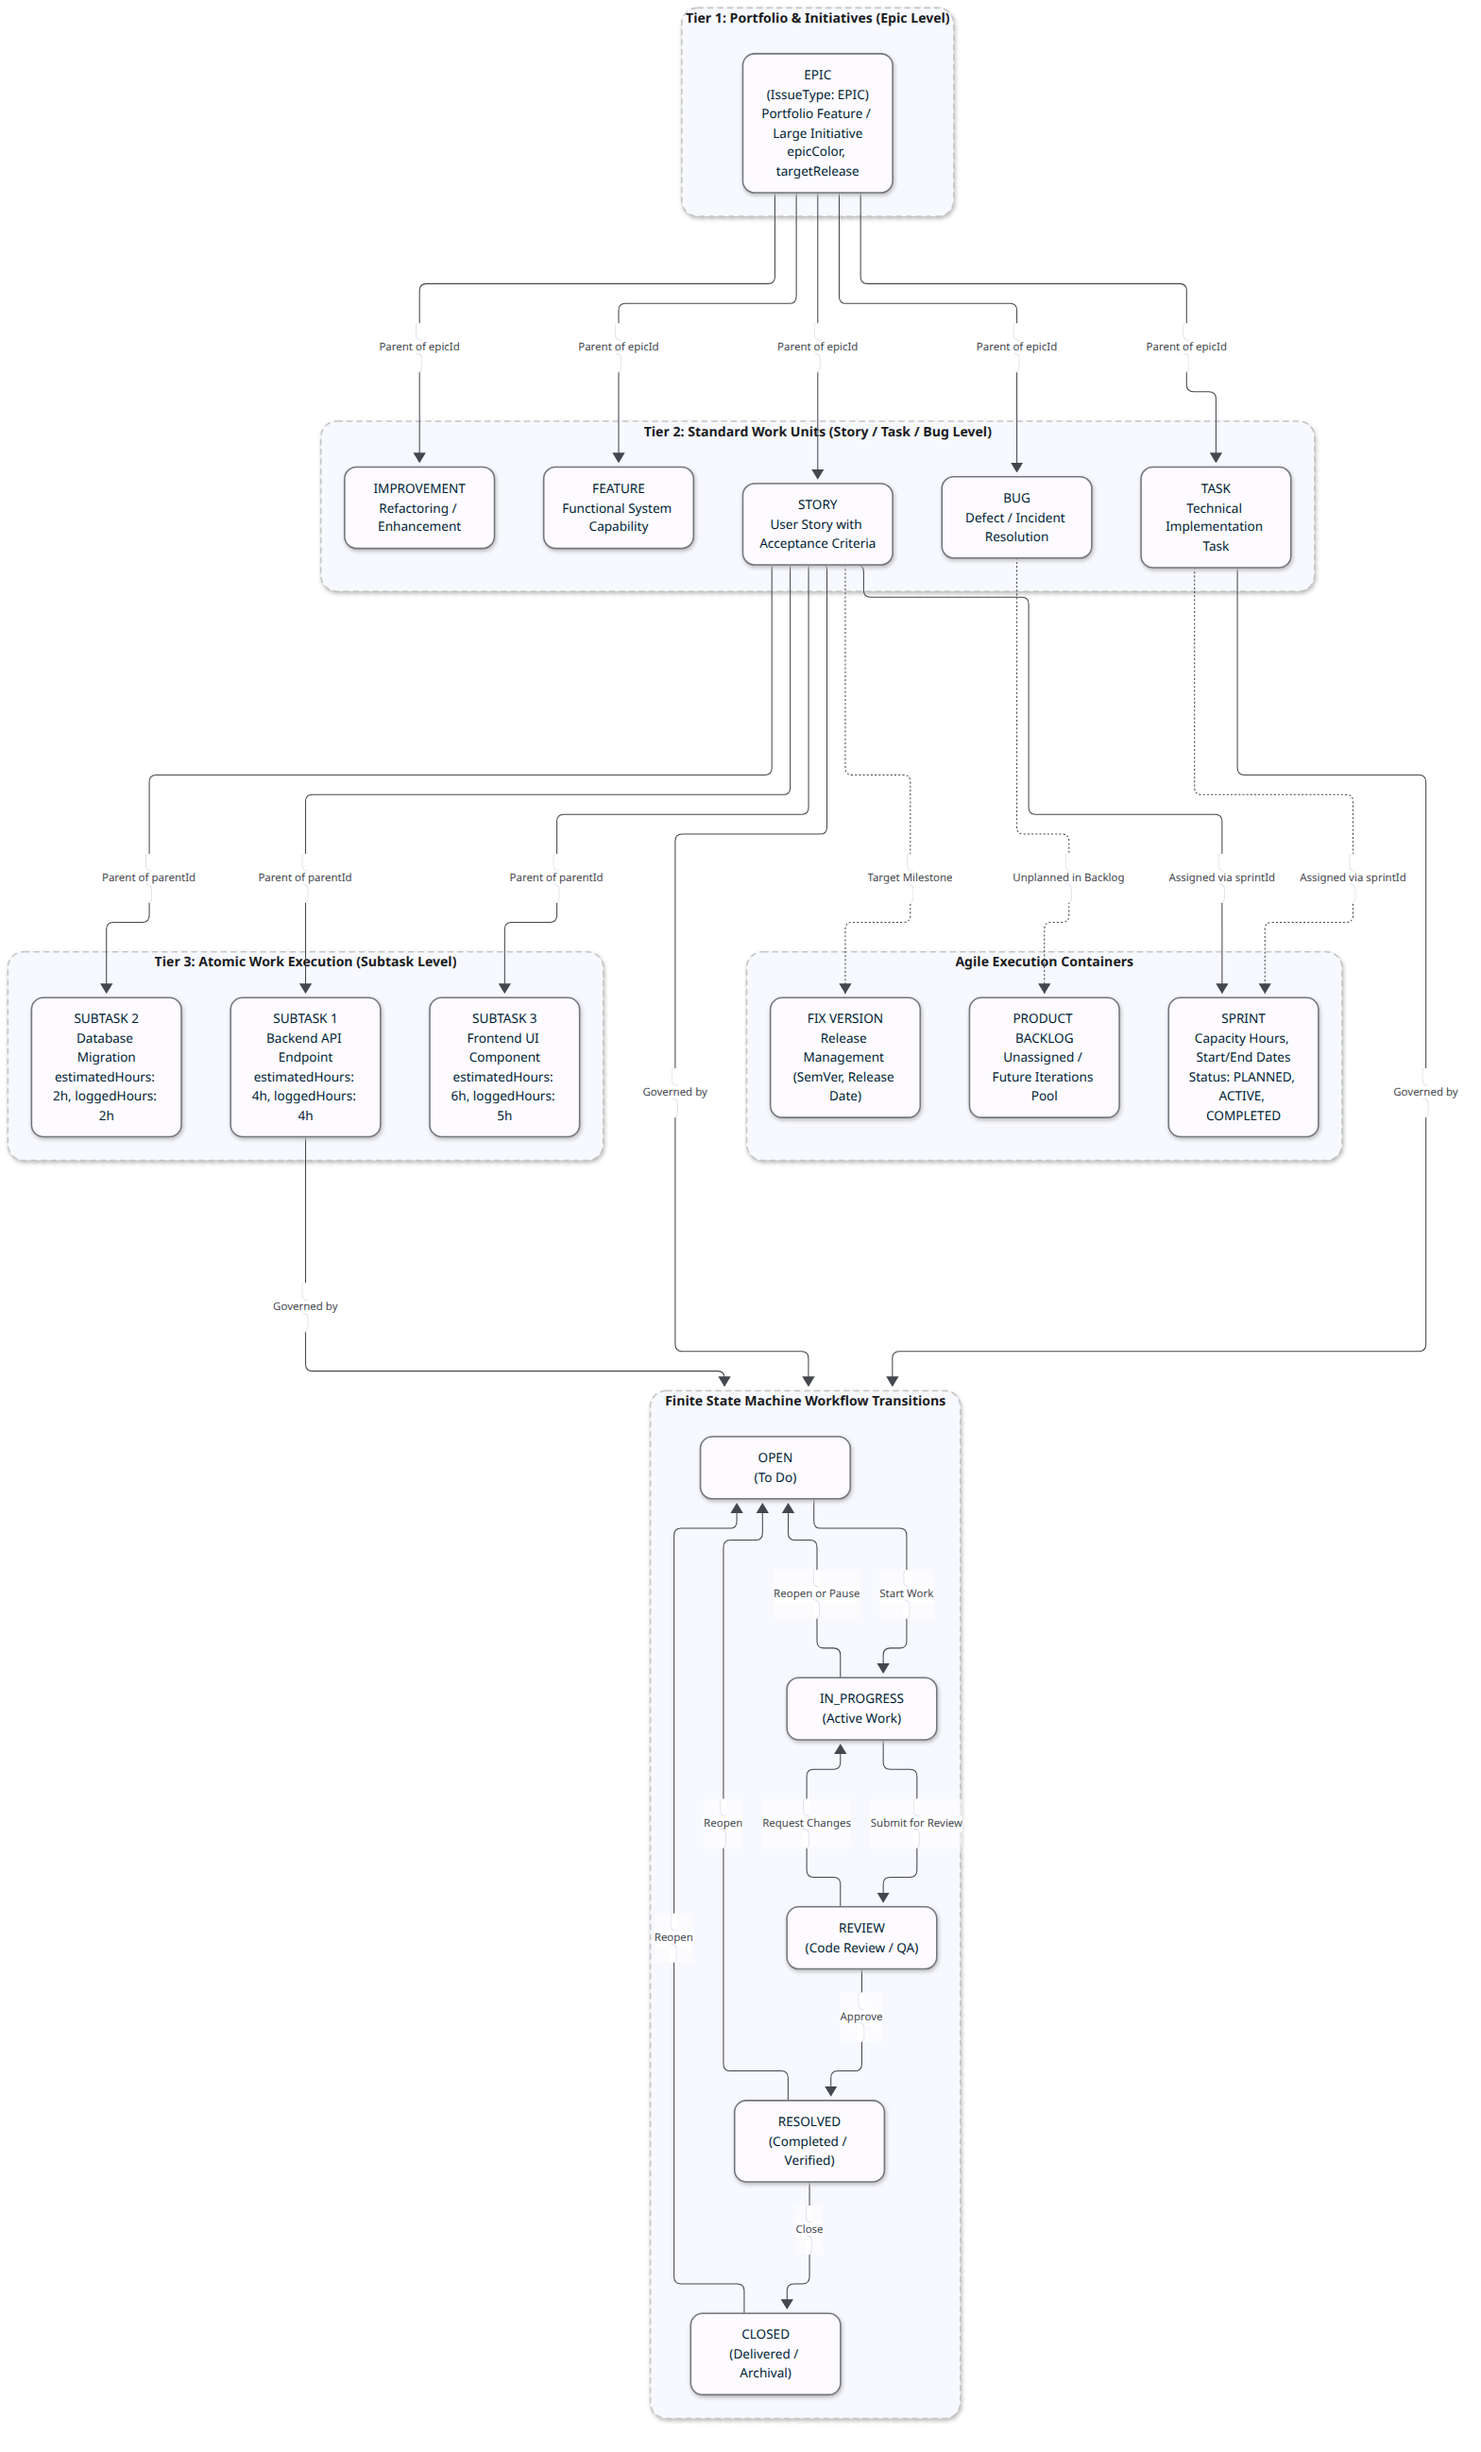
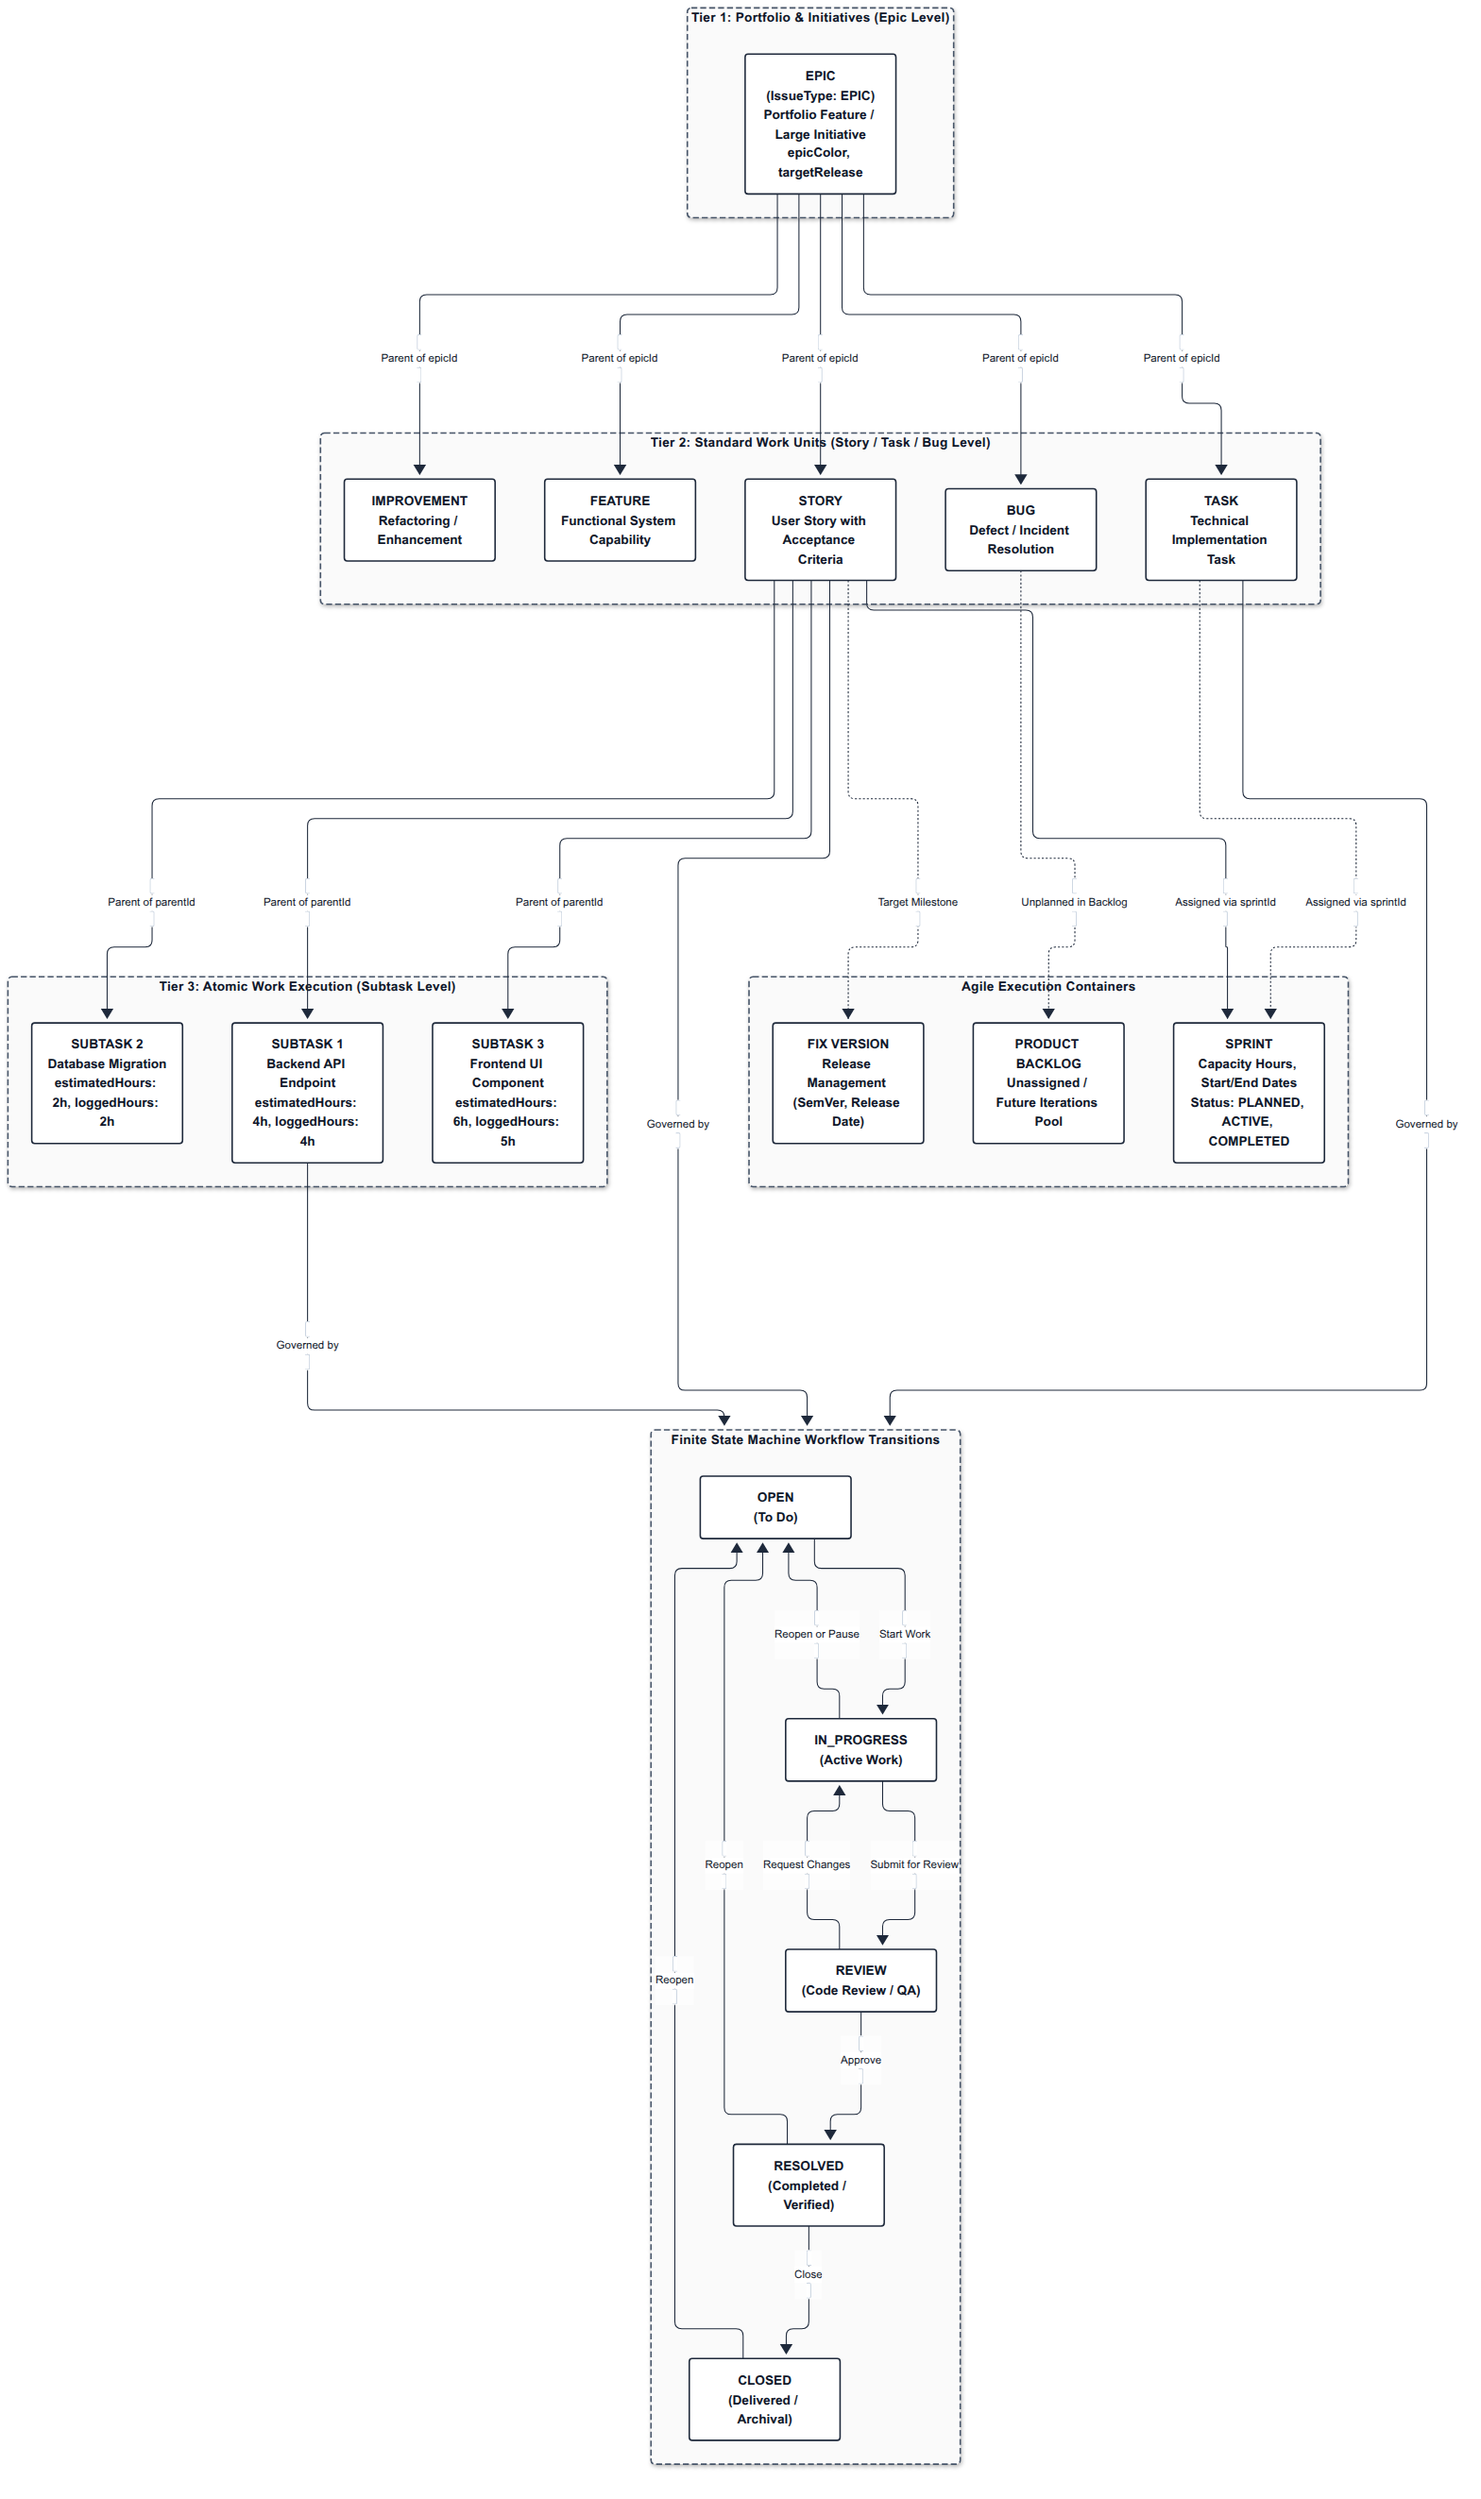
docs(diagrams): convert to academic style and purge dead code

diff --git a/documentation/architecture/diagrams/mermaid-style.css b/documentation/architecture/diagrams/mermaid-style.css
@@ -1,104 +1,139 @@
 /* ==============================================================================
-   Material Design 3 Expressive Styling for Mermaid Diagrams
+   Academic Technical Publication Style (IEEE / ACM / ISO / ДСТУ Standards)
    ============================================================================== */
 
-/* Global Typography */
+/* Global Academic Typography */
 text {
-  font-family: 'Inter', system-ui, -apple-system, BlinkMacSystemFont, 'Segoe UI', Roboto, sans-serif !important;
-  letter-spacing: -0.01em;
+  font-family: Arial, 'Helvetica Neue', 'Liberation Sans', sans-serif !important;
+  letter-spacing: 0 !important;
+  fill: #0F172A !important;
 }
 
-/* 1. Flowchart Elements */
+/* 1. Flowchart & UML Component Elements */
 .node rect,
 .node circle,
 .node polygon {
-  rx: 12px !important;
-  ry: 12px !important;
+  rx: 3px !important;
+  ry: 3px !important;
+  stroke: #1E293B !important;
   stroke-width: 1.5px !important;
-  filter: drop-shadow(0px 2px 4px rgba(0, 0, 0, 0.04));
+  fill: #FFFFFF !important;
+  filter: none !important;
 }
 
 .node .label {
-  font-weight: 500;
-  line-height: 1.4;
+  font-weight: 600;
+  line-height: 1.35;
+  color: #0F172A !important;
 }
 
-/* Subgraphs / Clusters (Pixel OS Optical Card Metaphor) */
+/* Subgraphs / Clusters (Package / Subsystem boundaries) */
 .cluster rect {
-  rx: 16px !important;
-  ry: 16px !important;
+  rx: 4px !important;
+  ry: 4px !important;
   stroke-width: 1.5px !important;
-  stroke: #C4C7C5 !important;
-  fill: #F8F9FE !important;
-  stroke-dasharray: 6 4;
+  stroke: #475569 !important;
+  fill: #FAFAFA !important;
+  stroke-dasharray: 6 3;
 }
 
 .cluster span.nodeLabel {
   font-weight: 700 !important;
-  font-size: 13.5px !important;
-  color: #1A1C1E !important;
+  font-size: 13px !important;
+  color: #0F172A !important;
+  letter-spacing: 0.02em;
 }
 
 /* Connection Edges & Arrows */
 .edgePath path.path {
-  stroke-width: 1.75px !important;
-  stroke: #44474E !important;
+  stroke-width: 1.5px !important;
+  stroke: #1E293B !important;
 }
 
 .edgeLabel {
   background-color: #FFFFFF !important;
-  border-radius: 6px !important;
-  padding: 2px 6px !important;
+  border-radius: 2px !important;
+  padding: 1px 4px !important;
   font-size: 11px !important;
   font-weight: 500 !important;
-  color: #44474E !important;
-  border: 1px solid #E0E2EC !important;
+  color: #0F172A !important;
+  border: 1px solid #CBD5E1 !important;
 }
 
 .marker {
-  fill: #44474E !important;
-  stroke: #44474E !important;
+  fill: #1E293B !important;
+  stroke: #1E293B !important;
 }
 
-/* 2. Sequence Diagrams */
+/* 2. Sequence Diagrams (UML Interaction Standard) */
 rect.actor {
-  rx: 12px !important;
-  ry: 12px !important;
+  rx: 2px !important;
+  ry: 2px !important;
+  stroke: #1E293B !important;
   stroke-width: 1.5px !important;
-  filter: drop-shadow(0px 2px 4px rgba(0, 0, 0, 0.04));
+  fill: #FFFFFF !important;
+  filter: none !important;
 }
 
 text.actor > tspan {
-  font-weight: 600 !important;
+  font-weight: 700 !important;
+  color: #0F172A !important;
 }
 
 .messageLine0,
 .messageLine1 {
-  stroke-width: 1.75px !important;
-  stroke: #005FB0 !important;
+  stroke-width: 1.5px !important;
+  stroke: #1E293B !important;
 }
 
 .messageText {
-  font-size: 12px !important;
+  font-size: 11.5px !important;
   font-weight: 500 !important;
+  fill: #0F172A !important;
 }
 
 .note {
-  rx: 8px !important;
-  ry: 8px !important;
-  stroke-width: 1.25px !important;
-  filter: drop-shadow(0px 2px 3px rgba(0, 0, 0, 0.03));
+  rx: 2px !important;
+  ry: 2px !important;
+  stroke: #64748B !important;
+  stroke-width: 1px !important;
+  fill: #F8FAFC !important;
+  filter: none !important;
 }
 
-/* 3. Entity-Relationship Diagrams */
+.noteText {
+  font-size: 11px !important;
+  font-weight: 500 !important;
+  fill: #334155 !important;
+}
+
+/* 3. Entity-Relationship Diagrams (Crow's Foot / IDEF1X Academic Style) */
 .er.entityBox {
-  rx: 10px !important;
-  ry: 10px !important;
+  rx: 2px !important;
+  ry: 2px !important;
+  stroke: #1E293B !important;
   stroke-width: 1.5px !important;
-  filter: drop-shadow(0px 2px 4px rgba(0, 0, 0, 0.04));
+  fill: #FFFFFF !important;
+  filter: none !important;
+}
+
+.er.entityLabel {
+  font-weight: 700 !important;
+  font-size: 12px !important;
+  fill: #0F172A !important;
+}
+
+.er.attributeBoxOdd {
+  fill: #FFFFFF !important;
+  stroke: #E2E8F0 !important;
+}
+
+.er.attributeBoxEven {
+  fill: #F8FAFC !important;
+  stroke: #E2E8F0 !important;
 }
 
 .er.relationshipLine {
-  stroke-width: 1.75px !important;
-  stroke: #005FB0 !important;
+  stroke-width: 1.5px !important;
+  stroke: #1E293B !important;
 }

diff --git a/backend/src/modules/issues/services/issue-worklog.service.spec.ts b/backend/src/modules/issues/services/issue-worklog.service.spec.ts
@@ -4,13 +4,11 @@ import { IssueWorklogService } from './issue-worklog.service.js';
 import { Issue, IssueStatus, IssuePriority, IssueType } from '../entities/issue.entity.js';
 import { Worklog } from '../entities/worklog.entity.js';
 import { User, SystemRole } from '../../users/entities/user.entity.js';
-import { ProjectPermission } from '../../rbac/entities/permission-grant.entity.js';
 
 describe('IssueWorklogService', () => {
   let service: IssueWorklogService;
   let mockIssueRepo: any;
   let mockWorklogRepo: any;
-  let mockUserRepo: any;
   let mockDataSource: any;
   let mockEventsGateway: any;
   let mockPermissionEvaluator: any;
@@ -80,10 +78,6 @@ describe('IssueWorklogService', () => {
       save: vi.fn((entity) => Promise.resolve(entity)),
       find: vi.fn(),
       createQueryBuilder: vi.fn(),
-    };
-
-    mockUserRepo = {
-      find: vi.fn(),
     };
 
     mockEventsGateway = {

diff --git a/backend/src/modules/auth/dto/set-password.dto.ts b/backend/src/modules/auth/dto/set-password.dto.ts
@@ -27,7 +27,7 @@ export class SetPasswordDto {
   @Matches(/(?=.*\d)/, {
     message: 'Password must contain at least one numeric digit',
   })
-  @Matches(/(?=.*[@$!%*?&^#()_+\-=\[\]{};':"\\|,.<>\/])/, {
+  @Matches(/(?=.*[@$!%*?&^#()_+\-=[\]{};':"\\|,.<>/])/, {
     message: 'Password must contain at least one special character/symbol',
   })
   newPassword?: string;
@@ -48,7 +48,7 @@ export class SetPasswordDto {
   @Matches(/(?=.*\d)/, {
     message: 'Password must contain at least one numeric digit',
   })
-  @Matches(/(?=.*[@$!%*?&^#()_+\-=\[\]{};':"\\|,.<>\/])/, {
+  @Matches(/(?=.*[@$!%*?&^#()_+\-=[\]{};':"\\|,.<>/])/, {
     message: 'Password must contain at least one special character/symbol',
   })
   password?: string;

diff --git a/frontend/src/components/search/SearchToolbar.tsx b/frontend/src/components/search/SearchToolbar.tsx
@@ -282,6 +282,10 @@ export const SearchToolbar: React.FC<SearchToolbarProps> = ({
           <BookmarkPlus className="w-3.5 h-3.5" />
           <span>Save View</span>
         </button>
+
+        <div className="hidden sm:inline-flex items-center px-2.5 py-1 rounded-full bg-[var(--md-sys-color-surface-container)] border border-[var(--md-sys-color-outline-variant)]/40 text-xs font-medium text-[var(--md-sys-color-on-surface-variant)] shrink-0">
+          <span>{totalResults} {totalResults === 1 ? 'issue' : 'issues'}</span>
+        </div>
       </div>
 
       {/* Right: Mode Toggle (JQL), View Layout Switcher, Export, Refresh */}

diff --git a/backend/src/modules/rbac/services/rbac.service.spec.ts b/backend/src/modules/rbac/services/rbac.service.spec.ts
@@ -1,10 +1,8 @@
 import { describe, it, expect, beforeEach, vi } from 'vitest';
-import { BadRequestException, NotFoundException } from '@nestjs/common';
+import { BadRequestException } from '@nestjs/common';
 import { RbacService } from './rbac.service.js';
 import { ProjectRole } from '../entities/project-role.entity.js';
 import { Group } from '../entities/group.entity.js';
-import { PermissionScheme } from '../entities/permission-scheme.entity.js';
-import { IssueSecurityScheme } from '../entities/issue-security-scheme.entity.js';
 
 describe('RbacService Enterprise CRUD & Safeguards', () => {
   let service: RbacService;

diff --git a/backend/src/modules/teams/teams.controller.ts b/backend/src/modules/teams/teams.controller.ts
@@ -18,7 +18,7 @@ import {
 } from '@nestjs/common';
 import { FileInterceptor } from '@nestjs/platform-express';
 import type { Response } from 'express';
-import { ApiTags, ApiOperation, ApiBearerAuth, ApiResponse, ApiConsumes } from '@nestjs/swagger';
+import { ApiTags, ApiOperation, ApiBearerAuth, ApiConsumes } from '@nestjs/swagger';
 import { TeamsService } from './teams.service.js';
 import { JwtAuthGuard } from '../../common/guards/jwt-auth.guard.js';
 import { Public } from '../../common/decorators/public.decorator.js';

diff --git a/backend/src/modules/issues/services/issue-links.service.spec.ts b/backend/src/modules/issues/services/issue-links.service.spec.ts
@@ -2,7 +2,7 @@ import { describe, it, expect, beforeEach, vi } from 'vitest';
 import { NotFoundException, BadRequestException } from '@nestjs/common';
 import { IssueLinksService } from './issue-links.service.js';
 import { Issue } from '../entities/issue.entity.js';
-import { IssueLink, IssueLinkType } from '../entities/issue-link.entity.js';
+import { IssueLinkType } from '../entities/issue-link.entity.js';
 
 describe('IssueLinksService', () => {
   let service: IssueLinksService;

diff --git a/frontend/src/pages/IssueDetailPage.spec.tsx b/frontend/src/pages/IssueDetailPage.spec.tsx
@@ -1,5 +1,5 @@
 import { describe, it, expect, vi, beforeEach } from 'vitest';
-import { render, screen, fireEvent } from '@testing-library/react';
+import { render, screen } from '@testing-library/react';
 import { MemoryRouter, Route, Routes } from 'react-router-dom';
 import { QueryClient, QueryClientProvider } from '@tanstack/react-query';
 import { IssueDetailPage } from './IssueDetailPage';

diff --git a/frontend/src/components/kanban/IssueModal.spec.tsx b/frontend/src/components/kanban/IssueModal.spec.tsx
@@ -1,5 +1,5 @@
 import { describe, it, expect, vi, beforeEach } from 'vitest';
-import { render, screen, fireEvent, waitFor } from '@testing-library/react';
+import { render, screen, fireEvent } from '@testing-library/react';
 import { QueryClient, QueryClientProvider } from '@tanstack/react-query';
 import { IssueModal } from './IssueModal';
 import type { IssueItem } from '../../api/client';

diff --git a/backend/src/modules/issues/services/issue-comments.service.spec.ts b/backend/src/modules/issues/services/issue-comments.service.spec.ts
@@ -1,5 +1,5 @@
 import { describe, it, expect, beforeEach, vi } from 'vitest';
-import { NotFoundException, ForbiddenException } from '@nestjs/common';
+import { NotFoundException } from '@nestjs/common';
 import { IssueCommentsService } from './issue-comments.service.js';
 import { Issue } from '../entities/issue.entity.js';
 import { Comment } from '../entities/comment.entity.js';

diff --git a/backend/src/modules/auth/dto/password-reset.dto.ts b/backend/src/modules/auth/dto/password-reset.dto.ts
@@ -35,7 +35,7 @@ export class ResetPasswordDto {
   @Matches(/(?=.*\d)/, {
     message: 'Password must contain at least one numeric digit',
   })
-  @Matches(/(?=.*[@$!%*?&^#()_+\-=\[\]{};':"\\|,.<>\/])/, {
+  @Matches(/(?=.*[@$!%*?&^#()_+\-=[\]{};':"\\|,.<>/])/, {
     message: 'Password must contain at least one special character/symbol',
   })
   newPassword: string;

diff --git a/backend/src/modules/auth/dto/register.dto.ts b/backend/src/modules/auth/dto/register.dto.ts
@@ -42,7 +42,7 @@ export class RegisterDto {
   @Matches(/(?=.*\d)/, {
     message: 'Password must contain at least one numeric digit',
   })
-  @Matches(/(?=.*[@$!%*?&^#()_+\-=\[\]{};':"\\|,.<>\/])/, {
+  @Matches(/(?=.*[@$!%*?&^#()_+\-=[\]{};':"\\|,.<>/])/, {
     message: 'Password must contain at least one special character/symbol',
   })
   password: string;
